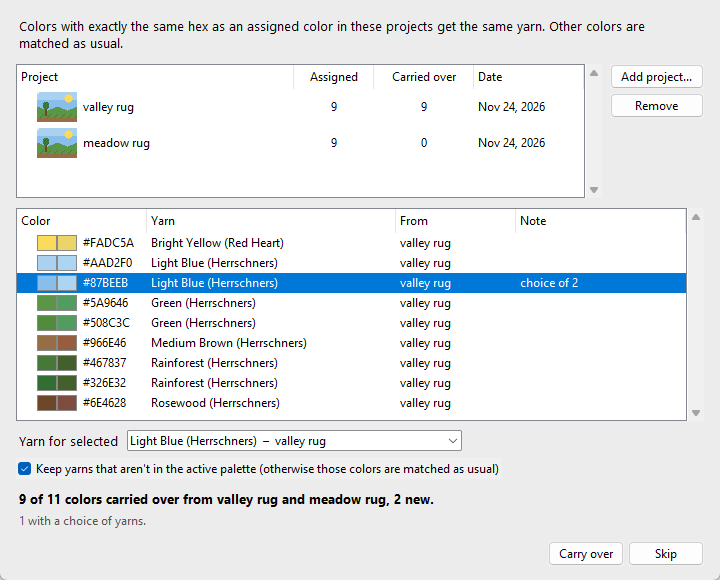
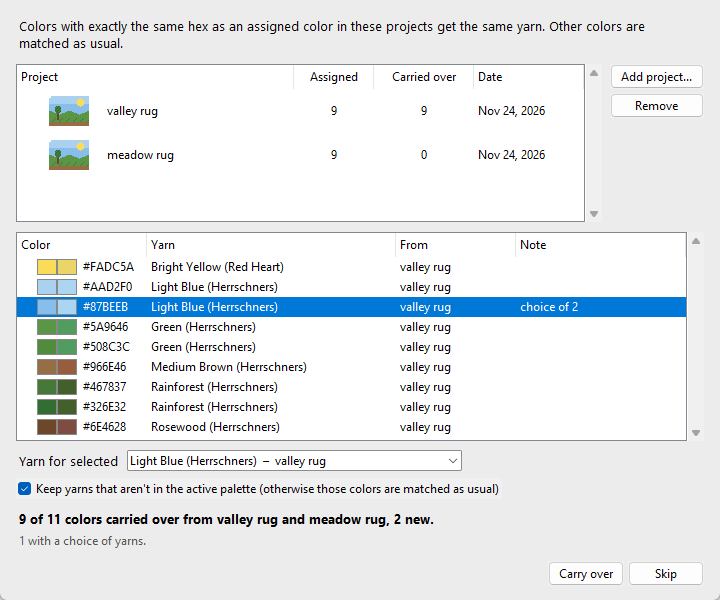
Carry over: thumbnails in a fixed frame so project names line up
Each rug is centered in a 64x40 frame at a whole-number scale (sprites up
to 40 px tall show at full size), with its transparency kept.

diff --git a/src/latchwork/carry_window.py b/src/latchwork/carry_window.py
@@ -20,24 +20,29 @@ def _names(items, most=4):
     return " and ".join(filter(None, [", ".join(items[:-1]), items[-1] if items else ""]))
 
 
-def _thumbnail(img, box_w=48, box_h=32):
-    """A rug's image as a PhotoImage at a whole-number scale that fits the box, so pixel art
-    stays crisp; transparent pixels show the window background."""
+def _thumbnail(img, box_w=64, box_h=40):
+    """A rug's image at a whole-number scale (so pixel art stays crisp), centered in a fixed
+    box_w x box_h image so every row's name starts at the same place. Transparent pixels and
+    the rest of the box stay transparent."""
     w, h = img.width, img.height
     photo = tk.PhotoImage(width=w, height=h)
     rows = []
     for y in range(h):
-        row = []
-        for r, g, b, a in img.pixels[y * w:(y + 1) * w]:
-            row.append("#%02x%02x%02x" % ((r, g, b) if a >= 128 else (236, 236, 236)))
-        rows.append("{" + " ".join(row) + "}")
+        rows.append("{" + " ".join("#%02x%02x%02x" % (r, g, b)
+                                   for r, g, b, _ in img.pixels[y * w:(y + 1) * w]) + "}")
     photo.put(" ".join(rows))
+    for i, (_, _, _, a) in enumerate(img.pixels):
+        if a < 128:
+            photo.transparency_set(i % w, i // w, True)
     zoom = min(box_w // w, box_h // h)
     if zoom > 1:
-        return photo.zoom(zoom)
-    if zoom == 1:
-        return photo
-    return photo.subsample(max(-(-w // box_w), -(-h // box_h)))
+        photo = photo.zoom(zoom)
+    elif zoom < 1:
+        photo = photo.subsample(max(-(-w // box_w), -(-h // box_h)))
+    box = tk.PhotoImage(width=box_w, height=box_h)
+    box.tk.call(box, "copy", photo, "-to", (box_w - photo.width()) // 2,
+                (box_h - photo.height()) // 2)
+    return box
 
 
 def _option_label(option):
@@ -67,7 +72,7 @@ class CarryDialog(tk.Toplevel):
         self.title("Carry over assignments")
         self.configure(bg=BG, padx=16, pady=14)
         self.minsize(600, 440)
-        self.geometry("720x580")
+        self.geometry("720x600")
         self.transient(parent)
 
         tk.Label(self, bg=BG, font=UI_FONT, justify="left", anchor="w",
@@ -77,7 +82,7 @@ class CarryDialog(tk.Toplevel):
         src = tk.Frame(self, bg=BG)
         src.pack(fill="x", pady=(10, 0))
         # earlier projects, newest first (the newest one's yarn is picked in a conflict)
-        ttk.Style(self).configure("Projects.Treeview", rowheight=36)
+        ttk.Style(self).configure("Projects.Treeview", rowheight=44)
         self.project_tree = ttk.Treeview(src, columns=("assigned", "carried", "date"), height=3,
                                          style="Projects.Treeview", selectmode="browse")
         for col, text, width, anchor in (("#0", "Project", 250, "w"),
